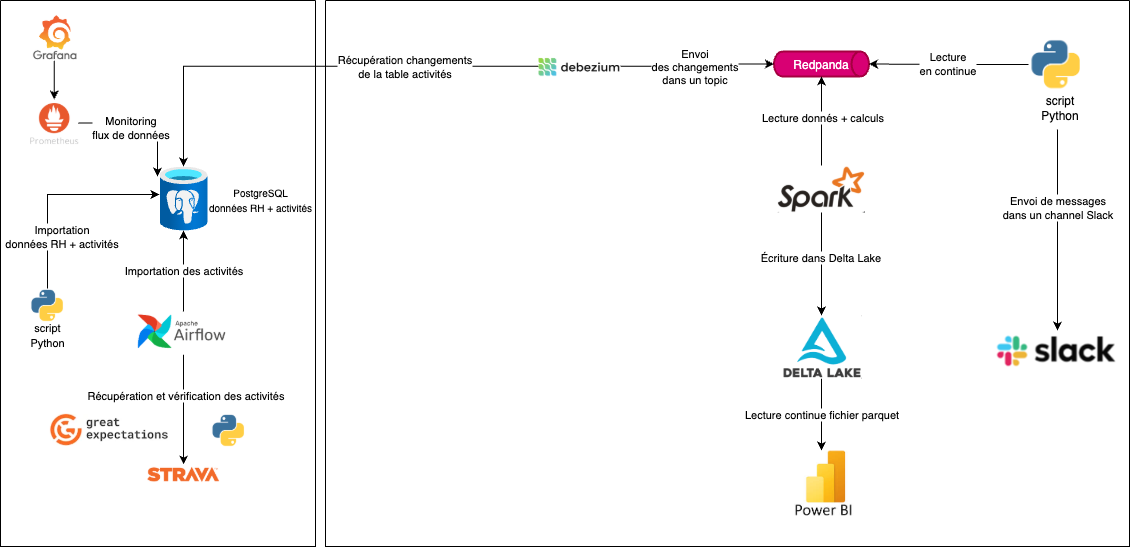
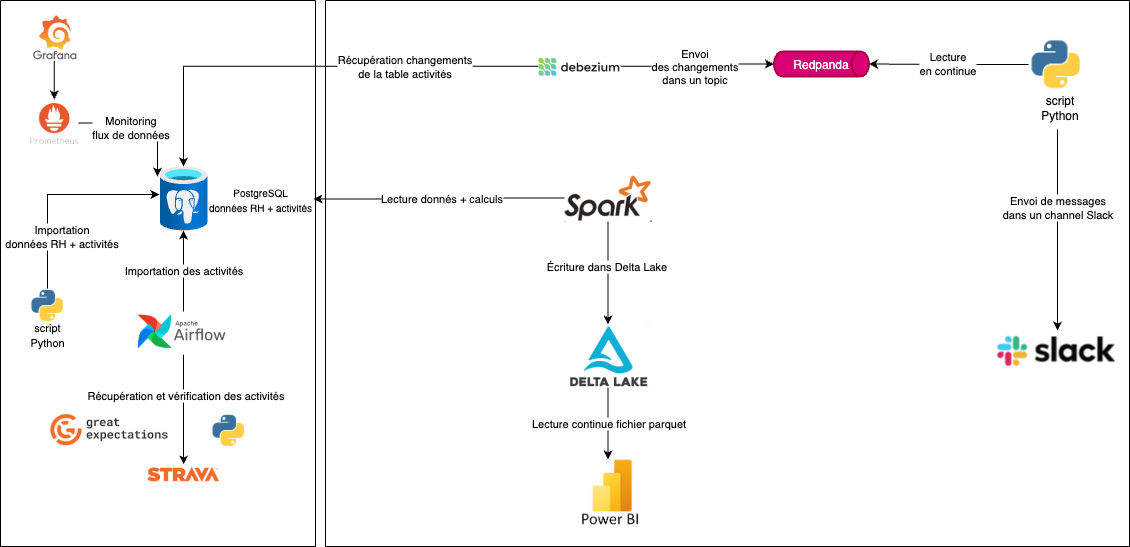
improve slack message and update architecture image

diff --git a/scripts/slack/redpanda_to_slack.py b/scripts/slack/redpanda_to_slack.py
@@ -7,42 +7,68 @@ from dotenv import load_dotenv
 from datetime import datetime, timezone
 from zoneinfo import ZoneInfo
 from babel.dates import format_datetime
-import os
+from os import getenv
 import json
+import psycopg2 as pg
 
-SLACK_TOKEN = os.getenv("SLACK_TOKEN")
-SLACK_CHANNEL = os.getenv("SLACK_CHANNEL")
-SLACK_USERNAME = os.getenv("SLACK_USERNAME")
+def main ():
+    """
+    """
+    # Load environment variables
+    load_dotenv()
+    SLACK_TOKEN = getenv("SLACK_TOKEN")
+    SLACK_CHANNEL = getenv("SLACK_CHANNEL")
+    SLACK_USERNAME = getenv("SLACK_USERNAME")
+    # Connect to DB
+    config = {
+           'host': getenv("POSTGRES_DB_HOST"),
+           'dbname': getenv("POSTGRES_DB_NAME"), 
+           'user': getenv("POSTGRES_ADMIN_USER"), 
+           'password': getenv("POSTGRES_ADMIN_PWD"),
+           'port': 5432
+    }
+    conn = pg.connect(**config)
+    cursor = conn.cursor()
+    # Connect to Slack
+    slack_client = WebClient(token=SLACK_TOKEN)
+    consumer = Consumer({
+        'bootstrap.servers': 'redpanda:9092',
+        'group.id': 'slack-poster',
+        'auto.offset.reset': 'earliest'
+    })
 
-load_dotenv()
-slack_client = WebClient(token=SLACK_TOKEN)
-consumer = Consumer({
-    'bootstrap.servers': 'redpanda:9092',
-    'group.id': 'slack-poster',
-    'auto.offset.reset': 'earliest'
-})
+    consumer.subscribe(['sport_data.public.activities'])
 
-consumer.subscribe(['sport_data.public.activities'])
+    while True:
+        msg = consumer.poll(1.0)
+        if msg is None:
+            continue
+        if not msg.error():
+            payload = json.loads(msg.value().decode("utf-8"))['payload']
+            after_data = payload.get("after")
+            if after_data:
+                try:
+                    # Difference in microseconds
+                    delta_us = after_data['end_date'] - after_data['start_date']
+                    # Convert in hours
+                    delta_hours = delta_us / 1_000_000 / 3600
+                    # Get the activity date in french
+                    start_date = datetime.fromtimestamp(after_data['start_date'] / 1_000_000, tz=ZoneInfo("Europe/Paris"))
+                    formatted_date = format_datetime(start_date, "EEEE d MMMM yyyy", locale="fr_FR")
+                    # Get employee first and last names
+                    cursor.execute(f"SELECT first_name, last_name FROM employees WHERE id_employee={after_data['id_employee']}")
+                    result = cursor.fetchone()
+                    first_name = result[0]
+                    last_name = result[1]
+                    # Get sport name
+                    cursor.execute(f"SELECT sport FROM sports WHERE id_sport={after_data['id_sport']}")
+                    sport = cursor.fetchone()[0]
+                    # Building message
+                    text_msg= f"Bravo {first_name} {last_name}! Vous avez fait {int(delta_hours)} heures de {sport} le {formatted_date}"
+                    #print(f"Message envoyé: {text_msg}")
+                    slack_client.chat_postMessage(channel=SLACK_CHANNEL, text=text_msg, username=SLACK_USERNAME)
+                except SlackApiError as e:
+                    print(f"Erreur Slack: {e.response['error']}")
 
-while True:
-    msg = consumer.poll(1.0)
-    if msg is None:
-        continue
-    if not msg.error():
-        payload = json.loads(msg.value().decode("utf-8"))['payload']
-        after_data = payload.get("after")
-        if after_data:
-            try:
-                # Difference in microseconds
-                delta_us = after_data['end_date'] - after_data['start_date']
-                # Convert in hours
-                delta_hours = delta_us / 1_000_000 / 3600
-                # Get the activity date in french
-                start_date = datetime.fromtimestamp(after_data['start_date'] / 1_000_000, tz=ZoneInfo("Europe/Paris"))
-                formatted_date = format_datetime(start_date, "EEEE d MMMM yyyy", locale="fr_FR")
-                # Building message
-                text_msg= f"Bravo {after_data['id_employee']}! Vous avez fait {int(delta_hours)} heures de {after_data['id_sport']} le {formatted_date}"
-                #print(f"Message envoyé: {text_msg}")
-                slack_client.chat_postMessage(channel=SLACK_CHANNEL, text=text_msg, username=SLACK_USERNAME)
-            except SlackApiError as e:
-                print(f"Erreur Slack: {e.response['error']}")
+if __name__ == "__main__":
+    main()
